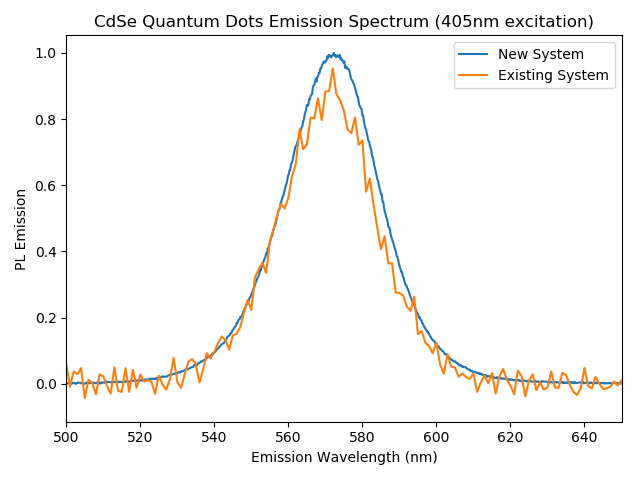
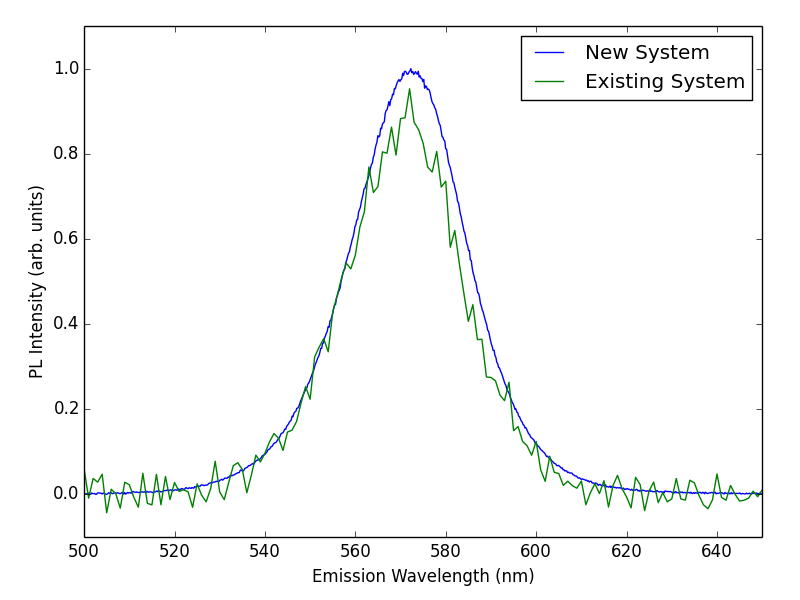
Updated plots with new y-axis label and no plot title

diff --git a/emission-plots/python/qd-plots.py b/emission-plots/python/qd-plots.py
@@ -91,17 +91,17 @@ fldata_cnorm = sp.normalizespectra(fldata_c)
 ## OTHER ANALYSIS ##
 
 # Using SciPy signal.find_peaks
-pk = sig.find_peaks(oceanbyroi_cnorm[0])
-print len(pk[0])
-print pk[0]
+# pk = sig.find_peaks(oceanbyroi_cnorm[0])
+# print len(pk[0])
+# print pk[0]
 
 ## PLOTS ##
 
 # Init plot
 plt.figure()
-plt.title("CdSe Quantum Dots Emission Spectrum (405nm excitation)")
+# plt.title("CdSe Quantum Dots Emission Spectrum (405nm excitation)")
 plt.xlabel("Emission Wavelength (nm)")
-plt.ylabel("PL Emission")
+plt.ylabel("PL Intensity (arb. units)")
 
 # Ocean optics
 plt.plot(oceanwavelength, oceanbyroi_cnorm[0], label="New System") # ROI A
@@ -114,5 +114,6 @@ plt.plot(flwavelength, fldata_cnorm[flindex], '-', label="Existing System") # RO
 plt.legend(loc='best')
 plt.tight_layout()
 plt.xlim(500, 650)
+plt.ylim(-0.1, 1.1)
 
-# plt.show()
+plt.show()

diff --git a/emission-plots/python/tesf-plots.py b/emission-plots/python/tesf-plots.py
@@ -93,9 +93,9 @@ fldata_cnorm = sp.normalizespectra(fldata_c)
 
 # Init plot
 plt.figure()
-plt.title("ADT-TES-F Emission Spectrum (405nm excitation)")
+# plt.title("ADT-TES-F Emission Spectrum (405nm excitation)")
 plt.xlabel("Emission Wavelength (nm)")
-plt.ylabel("PL Emission")
+plt.ylabel("PL Intensity (arb. units)")
 
 # Ocean optics
 # plt.plot(oceanwavelength, oceanbyroi_cnorm[0], label="New Setup (ROI A)")
@@ -108,5 +108,6 @@ plt.plot(flwavelength, fldata_cnorm[flindex], '-', label="Existing System") # So
 plt.legend(loc='best')
 plt.tight_layout()
 plt.xlim(500, 800)
+plt.ylim(-0.1, 1.1)
 
 plt.show()
